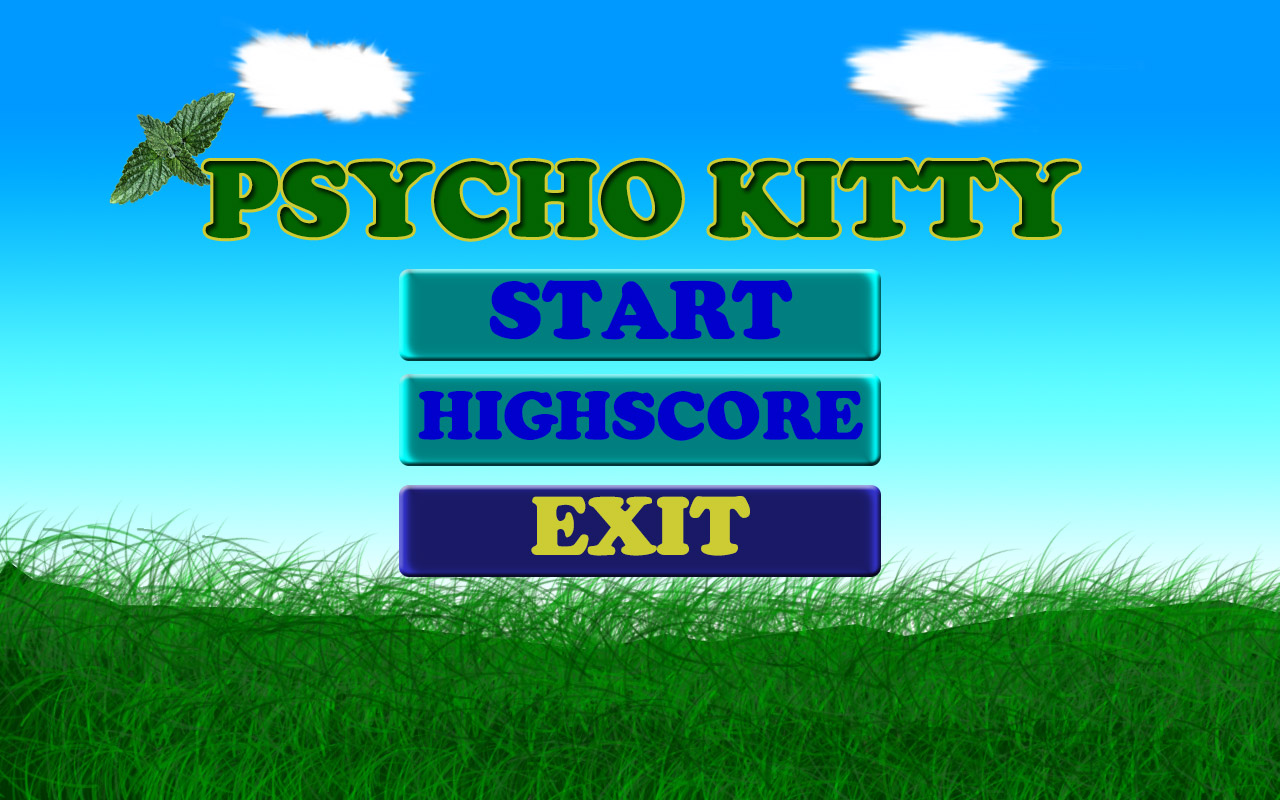
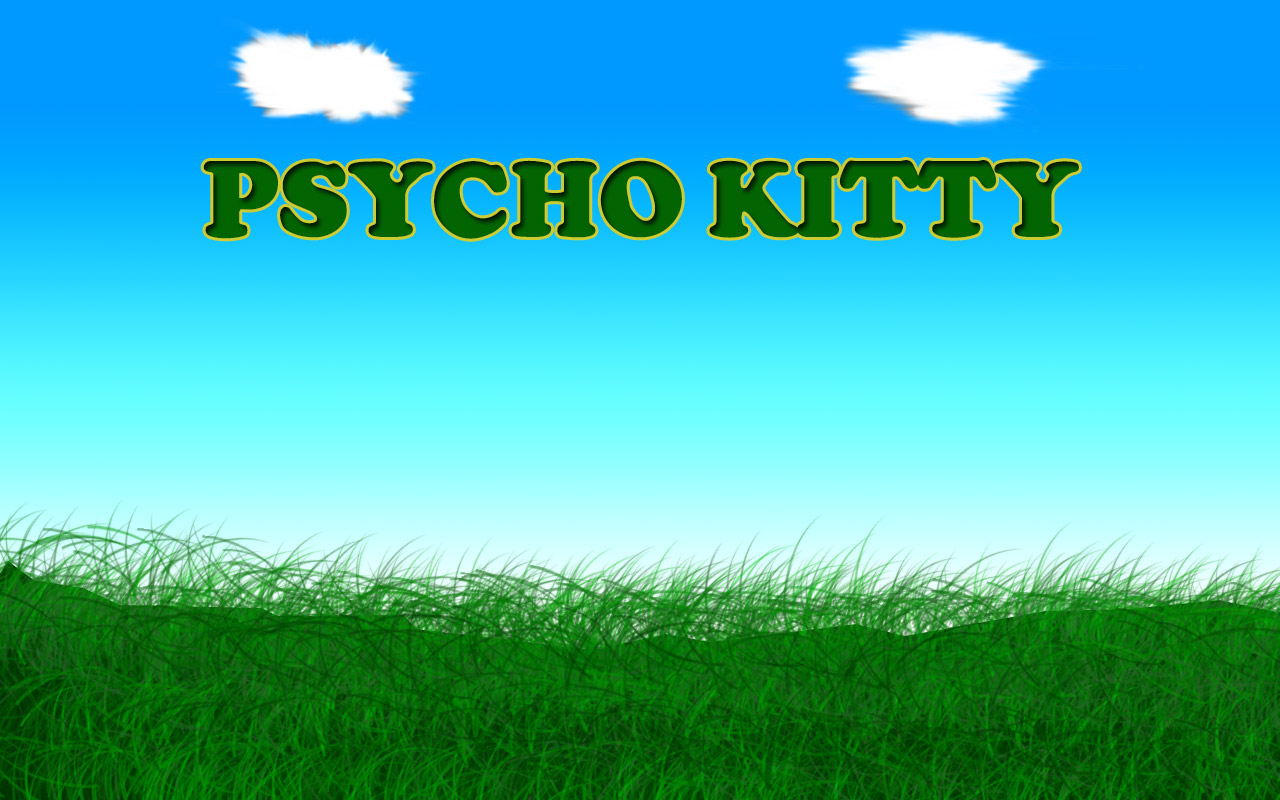
menu buttons

Changed region(s): [[0.3125, 0.3125, 0.6875, 0.7188], [0.0625, 0.0938, 0.1875, 0.25]]

diff --git a/core/src/com/psychokitty/game/MenuScreen.java b/core/src/com/psychokitty/game/MenuScreen.java
@@ -9,6 +9,8 @@ import com.badlogic.gdx.graphics.GL20;
 import com.badlogic.gdx.graphics.Pixmap;
 import com.badlogic.gdx.graphics.Texture;
 import com.badlogic.gdx.graphics.g2d.BitmapFont;
+import com.badlogic.gdx.graphics.g2d.NinePatch;
+import com.badlogic.gdx.graphics.g2d.TextureAtlas;
 import com.badlogic.gdx.scenes.scene2d.Group;
 import com.badlogic.gdx.scenes.scene2d.InputEvent;
 import com.badlogic.gdx.scenes.scene2d.Stage;
@@ -17,6 +19,7 @@ import com.badlogic.gdx.scenes.scene2d.ui.Label;
 import com.badlogic.gdx.scenes.scene2d.ui.Skin;
 import com.badlogic.gdx.scenes.scene2d.ui.TextButton;
 import com.badlogic.gdx.scenes.scene2d.utils.ClickListener;
+import com.badlogic.gdx.scenes.scene2d.utils.NinePatchDrawable;
 import com.badlogic.gdx.utils.Scaling;
 
 
@@ -36,6 +39,10 @@ public class MenuScreen implements Screen {
     private Group scoreItems;
     private Group menuItems;
 
+    private TextureAtlas buttonsAtlas;
+    private NinePatch buttonUpNine;
+    private NinePatch buttonDownNine;
+
     private Skin skin2 = new Skin(Gdx.files.internal(Constants.defaultJson));
 
     public MenuScreen(final PsychoKittyGame gam, com.psychokitty.game.AdMob.AdsController adsController) {
@@ -44,6 +51,10 @@ public class MenuScreen implements Screen {
     }
 
     private void createBasicSkin() {
+        buttonsAtlas = new TextureAtlas("Buttons/Buttons.pack");
+        buttonUpNine = buttonsAtlas.createPatch("ButtonUp");
+        buttonDownNine = buttonsAtlas.createPatch("ButtonDown");
+
         //Create a font
         BitmapFont font = new BitmapFont();
         skin = new Skin();
@@ -60,9 +71,11 @@ public class MenuScreen implements Screen {
 
         //Create a button style
         TextButton.TextButtonStyle textButtonStyle = new TextButton.TextButtonStyle();
-        textButtonStyle.up = skin.newDrawable("Buttons", Color.GRAY);
-        textButtonStyle.down = skin.newDrawable("Buttons", Color.DARK_GRAY);
-        textButtonStyle.over = skin.newDrawable("Buttons", Color.LIGHT_GRAY);
+
+        textButtonStyle.up = new NinePatchDrawable(buttonUpNine);
+        textButtonStyle.down = new NinePatchDrawable(buttonDownNine);
+        textButtonStyle.over = new NinePatchDrawable(buttonDownNine);
+
         textButtonStyle.font = skin.getFont("default");
         skin.add("default", textButtonStyle);
     }
@@ -102,6 +115,7 @@ public class MenuScreen implements Screen {
 
         final TextButton resetScoreButton = new TextButton("Reset Highscore", skin);
         final TextButton backButton = new TextButton("Back", skin);
+
         final Label scoreLabel = new Label("Score: " + Integer.toString(Highscore.getHighScore()), skin2);
         final Label scoreDate = new Label("Score Date: " + Highscore.getCurrentDate(), skin2);
         final Label Titel = new Label("Highscore", skin2);
